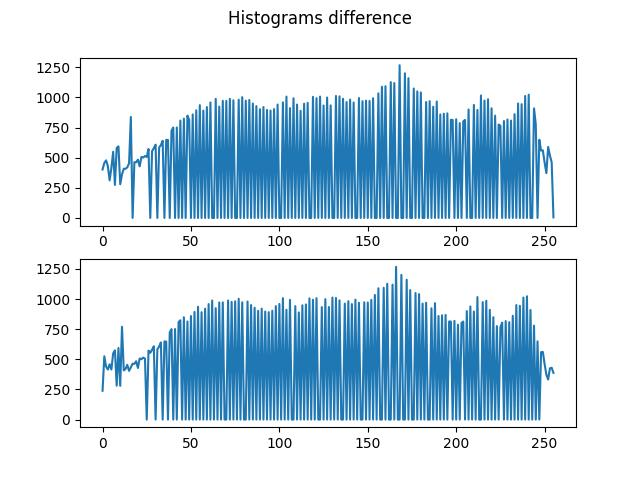
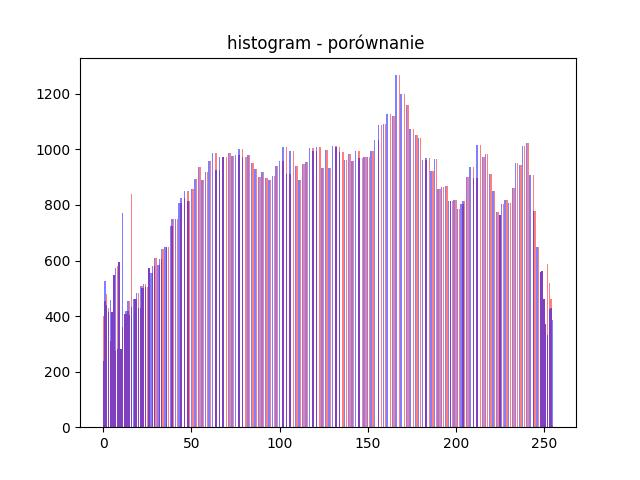
lab_9 fixed

diff --git a/Lab_9/lab9.py b/Lab_9/lab9.py
@@ -97,10 +97,9 @@ im_equalized1.save(path+"equalized1.jpg")
 ImageChops.difference(im_eq, im_equalized1).show() #obrazy są identyczne
 
 # Zadanie 7.2
-fig, axs = plt.subplots(2)
-fig.suptitle('Histograms difference')
-axs[0].plot(im_eq.histogram())
-axs[1].plot(im_equalized1.histogram())
+plt.title("histogram - porównanie ")
+plt.bar(range(256), im_eq.histogram(), color='r', alpha=0.5)
+plt.bar(range(256), im_equalized1.histogram(), color='b', alpha=0.5)
 plt.savefig(path+"porownanie.jpg")
 plt.show()
 
